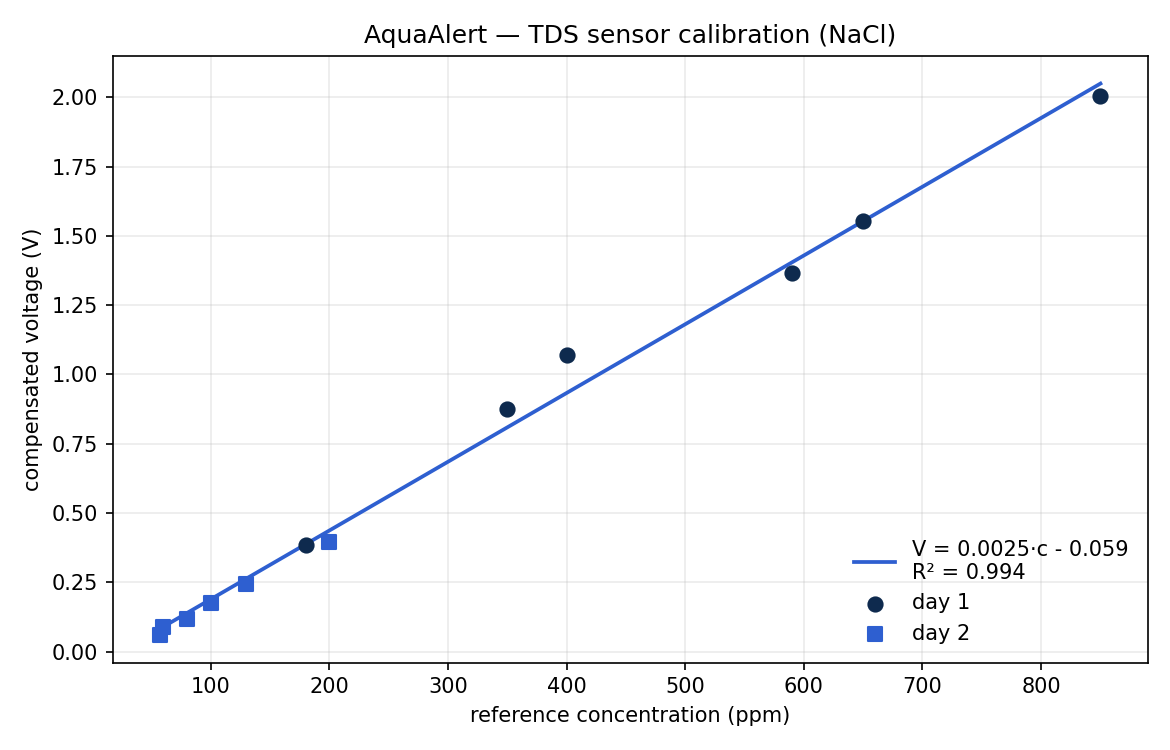
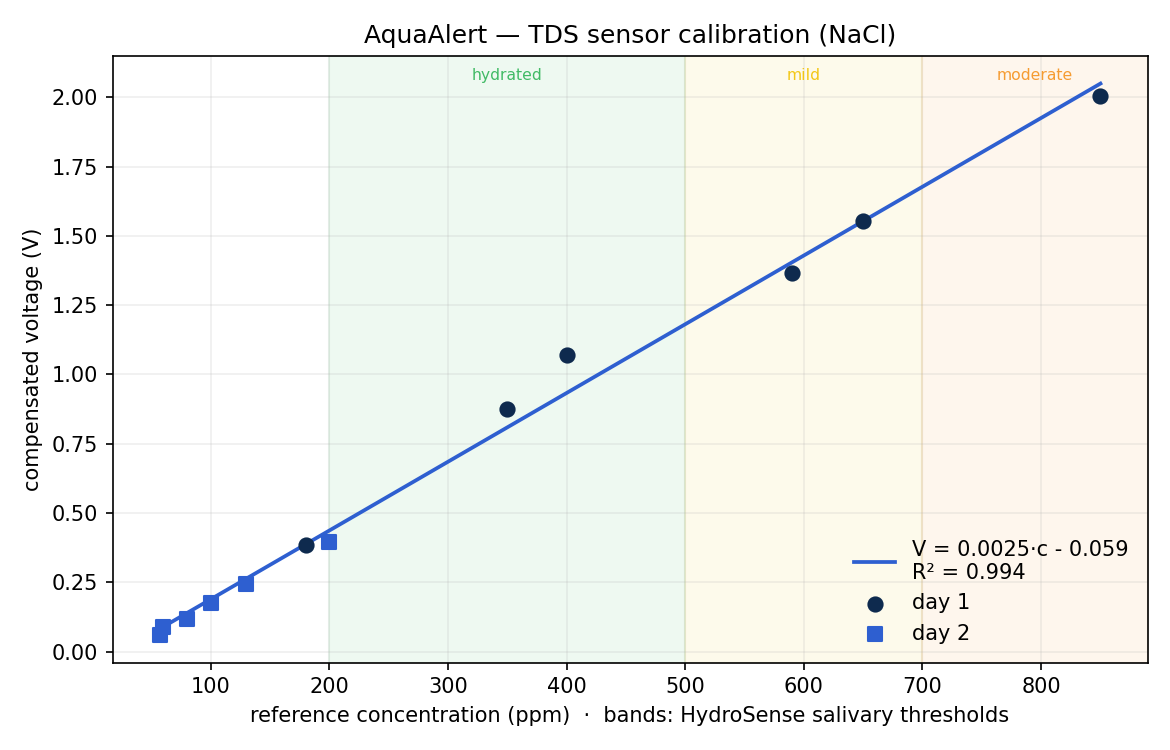
Ground the project in the HydroSense basis paper
HydroSense (Manoj Prabu et al., IJSRSET 2025) established salivary pH+TDS
dehydration thresholds; AquaAlert now adopts them throughout:

- calibrate.py shades the HydroSense salivary bands (hydrated/mild/
  moderate/severe) on the curve, showing the sensor's linear range spans
  the full clinical range (--no-bands to hide)
- app derives the 5 hydration levels from a salivary TDS value via the
  paper's thresholds (hydrated 200-500 split into Óptimo/Bueno, mild
  500-700, moderate 700-900, severe >=900 ppm)
- caregiver dashboard shows salivary TDS in ppm with the band thresholds,
  colour-coded; CSV export column renamed salivary_tds_ppm
- pitch Evidence section and README cite HydroSense as the foundation
  (doi:10.32628/IJSRSET2513816)

diff --git a/index.html b/index.html
@@ -692,11 +692,23 @@
 
 <script>
   // ---- State ----
+  // Hydration state is derived from the salivary TDS, using the thresholds
+  // from HydroSense (Manoj Prabu et al., IJSRSET 2025): hydrated 200–500,
+  // mild 500–700, moderate 700–900, severe ≥900 ppm. The "hydrated" band is
+  // split into Óptimo (<350) and Bueno (350–500) for the 5-level display.
+  function stateFromTDS(tds) {
+    if (tds < 350) return { level: 'optimo',       state: 'Óptimo',       color: 'var(--green)',  sub: 'Hidratación excelente' };
+    if (tds < 500) return { level: 'bueno',        state: 'Bueno',        color: 'var(--green)',  sub: 'Estás bien hidratado' };
+    if (tds < 700) return { level: 'moderado',     state: 'Moderado',     color: 'var(--yellow)', sub: 'Tu hidratación está bajando' };
+    if (tds < 900) return { level: 'bajo',         state: 'Bajo',         color: 'var(--orange)', sub: 'Necesitas beber agua ya' };
+    return            { level: 'deshidratado', state: 'Deshidratado', color: 'var(--red)',    sub: 'Deshidratación — avisando al cuidador' };
+  }
+
   let scenario = 'normal';
   const scenarios = {
-    normal:   { index: 78, state: 'Bueno',     level: 'bueno',      sub: 'Estás bien hidratado',          color: 'var(--green)',  reco: 'Hace calor hoy. Aumenta tu ingesta de agua a lo largo del día.' },
-    warning:  { index: 48, state: 'Moderado',  level: 'moderado',   sub: 'Tu hidratación está bajando',    color: 'var(--yellow)', reco: 'Alerta de calor activa. Bebe un vaso ahora y otro en 30 minutos.' },
-    critical: { index: 22, state: 'Bajo',      level: 'bajo',       sub: 'Necesitas beber agua ya',        color: 'var(--orange)', reco: 'Hidratación crítica. Hemos avisado a Carmen. Bebe agua de inmediato.' }
+    normal:   { tds: 420, reco: 'Hace calor hoy. Aumenta tu ingesta de agua a lo largo del día.' },
+    warning:  { tds: 620, reco: 'Alerta de calor activa. Bebe un vaso ahora y otro en 30 minutos.' },
+    critical: { tds: 950, reco: 'Hidratación crítica. Hemos avisado a Carmen. Bebe agua de inmediato.' }
   };
   let litersNow = 1.6;
   const litersGoal = 2.5;
@@ -716,15 +728,16 @@
   // ---- Apply scenario ----
   function applyScenario() {
     const s = scenarios[scenario];
-    document.getElementById('drop-state').textContent = s.state;
-    document.getElementById('drop-state').style.color = s.color;
-    document.getElementById('drop-sub').textContent = s.sub;
+    const st = stateFromTDS(s.tds);
+    document.getElementById('drop-state').textContent = st.state;
+    document.getElementById('drop-state').style.color = st.color;
+    document.getElementById('drop-sub').textContent = st.sub;
     document.getElementById('reco-text').textContent = s.reco;
     // legend current
     document.querySelectorAll('.legend-item').forEach(li => {
-      li.classList.toggle('current', li.dataset.level === s.level);
+      li.classList.toggle('current', li.dataset.level === st.level);
     });
-    placeMarker(s.level);
+    placeMarker(st.level);
   }
 
   // ---- Progress ring ----

diff --git a/dashboard.html b/dashboard.html
@@ -598,8 +598,8 @@
         <h3>Live sensor readings</h3>
         <div class="readings-list">
           <div class="reading-row">
-            <span class="key">Saliva conductance<span class="range">750–2000</span></span>
-            <span class="val"><span id="c-saliva">—</span><span class="unit">µS</span></span>
+            <span class="key">Salivary TDS<span class="range">hyd &lt;500 · mild 700 · sev ≥900</span></span>
+            <span class="val"><span id="c-saliva">—</span><span class="unit">ppm</span></span>
           </div>
           <div class="reading-row">
             <span class="key">Ankle BIA impedance<span class="range">200–400</span></span>
@@ -774,13 +774,18 @@
   }
 
   function setCareReadings(value) {
-    const saliva = Math.round(2400 - value * 18 + (Math.random() - 0.5) * 80);
+    // Map the 0–100 index to salivary TDS using HydroSense thresholds
+    // (IJSRSET 2025): ~200 ppm fully hydrated → ~1100 ppm severe.
+    const tds = Math.round(200 + (100 - value) * 9 + (Math.random() - 0.5) * 30);
     const bia = Math.round(440 - value * 2.2 + (Math.random() - 0.5) * 10);
     const tliq = (18 + Math.random() * 2).toFixed(1);
     const tamb = scenario === 'normal' ? (24 + Math.random() * 2).toFixed(1)
                 : scenario === 'warning' ? (34 + Math.random() * 2).toFixed(1)
                 : (39 + Math.random() * 2).toFixed(1);
-    document.getElementById('c-saliva').textContent = saliva;
+    const salivaEl = document.getElementById('c-saliva');
+    salivaEl.textContent = tds;
+    salivaEl.style.color = tds < 500 ? 'var(--teal)' : tds < 700 ? 'var(--signal)'
+                         : tds < 900 ? 'var(--signal)' : 'var(--alarm)';
     document.getElementById('c-bia').textContent = bia;
     document.getElementById('c-tliq').textContent = tliq;
     document.getElementById('c-tamb').textContent = tamb;
@@ -886,14 +891,14 @@
 
   document.getElementById('export-csv').addEventListener('click', () => {
     const now = new Date();
-    let csv = 'timestamp,hydration_index,saliva_conductance_uS,bia_impedance_ohm,liquid_temp_c,ambient_temp_c\n';
+    let csv = 'timestamp,hydration_index,salivary_tds_ppm,bia_impedance_ohm,liquid_temp_c,ambient_temp_c\n';
     history.forEach((v, i) => {
       const ts = new Date(now.getTime() - (history.length - i) * 30 * 60 * 1000).toISOString();
-      const saliva = Math.round(2400 - v * 18);
+      const tds = Math.round(200 + (100 - v) * 9);
       const bia = Math.round(440 - v * 2.2);
       const tliq = (18 + Math.random() * 2).toFixed(1);
       const tamb = (24 + Math.random() * 6).toFixed(1);
-      csv += `${ts},${v.toFixed(1)},${saliva},${bia},${tliq},${tamb}\n`;
+      csv += `${ts},${v.toFixed(1)},${tds},${bia},${tliq},${tamb}\n`;
     });
     const blob = new Blob([csv], { type: 'text/csv' });
     const url = URL.createObjectURL(blob);

diff --git a/pitch.html b/pitch.html
@@ -706,9 +706,21 @@
 <section id="science">
   <div class="wrap">
     <div class="section-num">§ 04 · Evidence base</div>
-    <h2 class="serif">Both modalities have been validated independently. AquaAlert combines them.</h2>
+    <h2 class="serif">Built on a validated saliva method, extended for elderly care.</h2>
+    <p class="prose" style="margin-bottom: 32px;">
+      The bottle's conductance sensor follows <strong>HydroSense</strong>, which established
+      salivary TDS as a non-invasive dehydration marker on low-cost hardware. AquaAlert adopts its
+      thresholds, then adds ankle bioimpedance, caregiver alerts, and an elderly-care form factor.
+    </p>
 
     <ol class="refs">
+      <li>
+        <div class="body">
+          <strong>Manoj Prabu, M. et al.</strong> HydroSense: Saliva-based Non-Invasive Dehydration Detector. <em>Int. J. Sci. Res. Sci. Eng. Technol.</em> 12(6), 13–18 (2025). doi:10.32628/IJSRSET2513816.
+          pH + TDS on Arduino; salivary thresholds — hydrated 200–500, mild 500–700, moderate 700–900, severe ≥900 ppm. <em>The foundation of AquaAlert's bottle sensor.</em>
+        </div>
+        <div class="stat-cell">basis<span class="unit">pH + TDS</span></div>
+      </li>
       <li>
         <div class="body">
           <strong>Lu, Y. et al.</strong> Portable salivary diagnostic system for dehydration based on Au coplanar electrodes. <em>Scientific Reports</em> 9, 14771 (2019).

diff --git a/analysis/calibrate.py b/analysis/calibrate.py
@@ -50,6 +50,8 @@ def main() -> None:
     ap.add_argument("--out", type=Path, default=ROOT / "docs" / "calibration_curve.png")
     ap.add_argument("--show-saturated", action="store_true",
                     help="also plot the excluded saturated points")
+    ap.add_argument("--no-bands", action="store_true",
+                    help="hide the HydroSense salivary hydration bands")
     args = ap.parse_args()
 
     if not args.csv.exists():
@@ -115,10 +117,27 @@ def main() -> None:
         ax.text(df[conc_col].max(), 2.31, "sensor ceiling ~2.3 V",
                 ha="right", va="bottom", fontsize=8, color="#B23A2F")
 
-    ax.set_xlabel(f"reference concentration ({unit})")
+    # HydroSense (IJSRSET 2025) salivary hydration bands, in ppm TDS
+    if not args.no_bands and unit == "ppm":
+        x0, x1 = ax.get_xlim()
+        bands = [(200, 500, "#2FB457", "hydrated"),
+                 (500, 700, "#F2C200", "mild"),
+                 (700, 900, "#F5921E", "moderate"),
+                 (900, 1e9, "#E5402F", "severe")]
+        ytop = ax.get_ylim()[1]
+        for lo, hi, col, lbl in bands:
+            a, bb = max(lo, x0), min(hi, x1)
+            if a >= bb:
+                continue
+            ax.axvspan(a, bb, color=col, alpha=0.08, zorder=0)
+            ax.text((a + bb) / 2, ytop * 0.98, lbl, ha="center", va="top",
+                    fontsize=7.5, color=col, alpha=0.9)
+        ax.set_xlim(x0, x1)
+
+    ax.set_xlabel(f"reference concentration ({unit})  ·  bands: HydroSense salivary thresholds")
     ax.set_ylabel("compensated voltage (V)")
     ax.set_title("AquaAlert — TDS sensor calibration (NaCl)")
-    ax.grid(True, alpha=0.25)
+    ax.grid(True, alpha=0.2)
     ax.legend(loc="lower right", frameon=False)
     fig.tight_layout()
 

diff --git a/README.md b/README.md
@@ -17,6 +17,7 @@ Both stream data to a multimodal fusion algorithm that outputs the hydration ind
 
 ## Scientific basis
 
+- **HydroSense — Manoj Prabu et al. 2025** *(IJSRSET 12(6):13–18, [doi:10.32628/IJSRSET2513816](https://doi.org/10.32628/IJSRSET2513816))* — **foundational paper.** Saliva pH + TDS on Arduino classifies dehydration. Salivary TDS thresholds: hydrated 200–500, mild 500–700, moderate 700–900, severe ≥900 ppm. AquaAlert's bottle sensor builds on this and adopts its thresholds; the NaCl calibration confirms the sensor is linear across this whole range (saturating only at ~900 ppm, the severe threshold).
 - **Lu et al. 2019** *(Scientific Reports)* — gold coplanar electrodes + salivary conductance detect dehydration; sensitivity 86%, specificity 91% vs serum osmolality.
 - **PMC 2021** *(N=20, 13 h)* — salivary conductivity rises with water restriction, falls after 1000 mL rehydration. Correlates with urinary osmolality, thirst scale, body weight.
 - **Dasgupta 2018** — ankle tetrapolar BIA at 50 kHz validated for total body water (R=0.97 vs gold standard).
